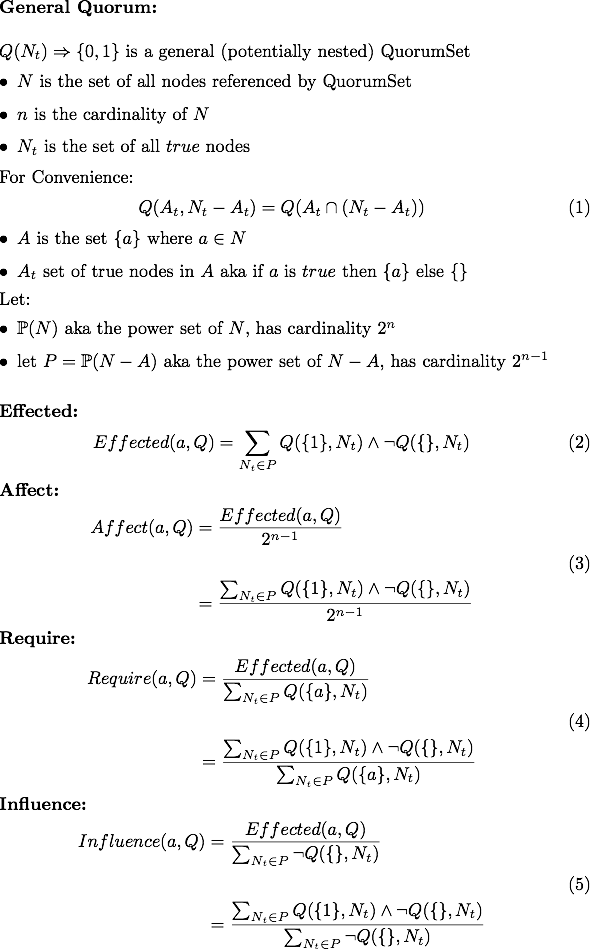
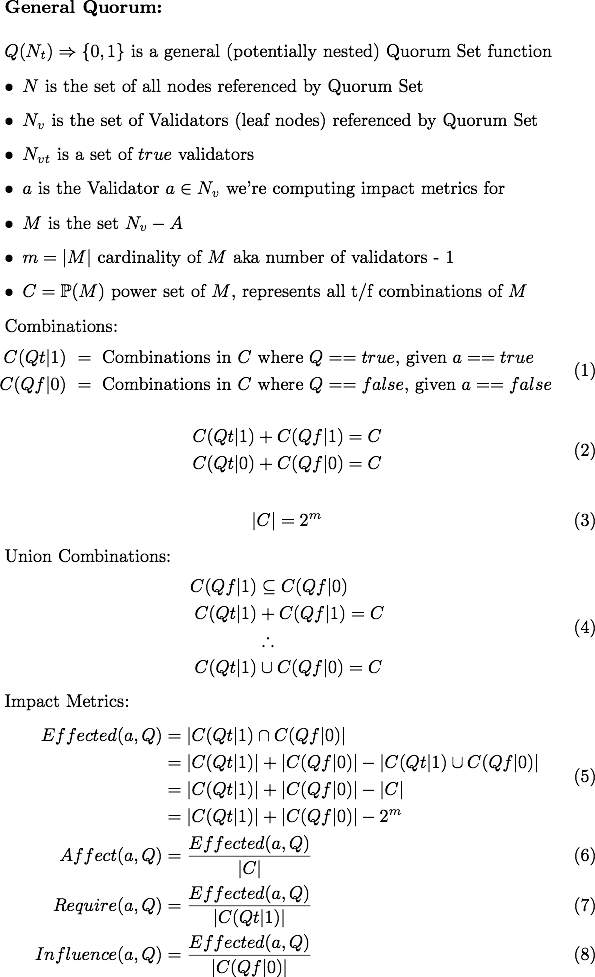
recursive math

diff --git a/iOS/NodeStar/Models/QuorumNode.swift b/iOS/NodeStar/Models/QuorumNode.swift
@@ -197,7 +197,7 @@ class QuorumSet : QuorumNode {
             for trueValidators in neededValidators...validatorNodes.count {
                 let binomialTerm: Int = binomial(n: validatorNodes.count, k: trueValidators)
                 var truthsGivenNodeTrue = 0
-                var falsesGivenNodeFalse = 0
+                var truthsGivenNodeFalse = 0
                 
                 // Given validator true
                 if trueQSNodes + trueValidators + includesSubjectValidator >= threshold {
@@ -205,7 +205,7 @@ class QuorumSet : QuorumNode {
                 }
                 // Given validator false
                 if trueQSNodes + trueValidators >= threshold {
-                    falsesGivenNodeFalse = binomialTerm
+                    truthsGivenNodeFalse = binomialTerm
                 }
                 
                 // Now multiply out the qsNodes
@@ -215,15 +215,15 @@ class QuorumSet : QuorumNode {
                     if i & 2<<(qsIndex-1) > 0 { // Truth of qsNode[qsIndex]
                         // qs node in question is true
                         truthsGivenNodeTrue *= innerMetrics.truthsGivenNodeTrue
-                        falsesGivenNodeFalse *= innerMetrics.truthsGivenNodeFalse
+                        truthsGivenNodeFalse *= innerMetrics.truthsGivenNodeFalse
                     }
                     else { // qs is false
                         truthsGivenNodeTrue *= innerMetrics.falsesGivenNodeTrue
-                        falsesGivenNodeFalse *= innerMetrics.falsesGivenNodeFalse
+                        truthsGivenNodeFalse *= innerMetrics.falsesGivenNodeFalse
                     }
                 }
                 metrics.truthsGivenNodeTrue += truthsGivenNodeTrue
-                metrics.truthsGivenNodeFalse += falsesGivenNodeFalse
+                metrics.truthsGivenNodeFalse += truthsGivenNodeFalse
             }
         }
         

diff --git a/math/math1.tex b/math/math1.tex
@@ -6,74 +6,76 @@
 \begin{document}
 % Export: fontsize=18, mode=auto, type=png
 \newcommand{\powerset}[1]{\mathbb{P}(#1)}
+\newcommand{\cardinality}[1]{\left\vert{#1}\right\vert}
 
-\newcommand{\effectedExpression}[0]{ \sum_{N_t \in P} Q(\{1\},N_t) \land \lnot Q(\{\},N_t) }
-\newcommand{\affectDenomExpression}[0]{ 2^{n-1} }
-\newcommand{\requireDenomExpression}[0]{ \sum_{N_t \in P} Q(\{a\},N_t) }
-\newcommand{\influenceDenomExpression}[0]{ \sum_{N_t \in P} \lnot Q(\{\},N_t) }
+\newcommand{\tgt}[0]{ \cardinality{ C(Qt|1) } }
+\newcommand{\tgf}[0]{ \cardinality{ C(Qt|0) } }
+\newcommand{\fgt}[0]{ \cardinality{ C(Qf|1) } }
+\newcommand{\fgf}[0]{ \cardinality{ C(Qf|0) } }
+\newcommand{\effected}[0]{ \tgt + \fgf - 2^m }
+% ^ Shared Stuff
 
 
 \textbf{General Quorum:}\\\par
-$Q(N_t) \Rightarrow \{0,1\}$ is a general (potentially nested) QuorumSet
+$Q(N_t) \Rightarrow \{0,1\}$ is a general (potentially nested) Quorum Set function
 
 \begin{itemize}
-  \item $N$ is the set of all nodes referenced by QuorumSet
-  \item $n$ is the cardinality of $N$
-  \item $N_t$ is the set of all $true$ nodes
-\end{itemize}
-
-For Convenience:
-\begin{equation}
-    Q(A_t,N_t-A_t) = Q(A_t \cap (N_t-A_t))
-\end{equation}
-\begin{itemize}
-  \item $A$ is the set $\{a\}$ where $a \in N$
-  \item $A_t$ set of true nodes in $A$ aka if $a$ is $true$ then $\{a\}$ else $\{\}$
-\end{itemize}
-
-Let:
-\begin{itemize}
-  \item $\powerset{N}$ aka the power set of $N$, has cardinality $2^n$
-  \item let $P = \powerset{N-A}$ aka the power set of $N-A$, has cardinality $2^{n-1}$
+  \item $N$ is the set of all nodes referenced by Quorum Set
+  \item $N_v$ is the set of Validators (leaf nodes) referenced by Quorum Set
+  \item $N_{vt}$ is a set of $true$ validators
+  \item $a$ is the Validator $a \in N_v$  we're computing impact metrics for
+  \item $M$ is the set $N_v-A$
+  \item $m = \cardinality{M}$ cardinality of $M$ aka number of validators - 1
+  \item $C = \powerset{M}$ power set of $M$, represents all t/f combinations of $M$
 \end{itemize}
 
 
-
-
-
-\leavevmode
-\par
-\textbf{Effected:}
-\begin{equation}
-    Effected(a,Q) = \effectedExpression{}
-\end{equation}
-
-\textbf{Affect:}
+Combinations:
 \begin{align}
 \begin{split}
-    Affect(a,Q) &= \frac{Effected(a,Q)}{\affectDenomExpression{}} \\
-\\
-                &= \frac{\effectedExpression{}}{\affectDenomExpression{}}
+  C(Qt|1) \text{ } &= \text{ Combinations in } C \text{ where } Q == true \text{, given } a == true \\
+  C(Qf|0) \text{ } &= \text{ Combinations in } C \text{ where } Q == false \text{, given } a == false \\
 \end{split}
 \end{align}
 
-\textbf{Require:}
 \begin{align}
 \begin{split}
-    Require(a,Q) &= \frac{Effected(a,Q)}{\requireDenomExpression{}} \\
-\\
-                 &= \frac{\effectedExpression{}}{\requireDenomExpression{}}
+  C(Qt|1) + C(Qf|1) &= C \\
+  C(Qt|0) + C(Qf|0) &= C \\
 \end{split}
 \end{align}
 
-\textbf{Influence:}
 \begin{align}
 \begin{split}
-    Influence(a,Q) &= \frac{Effected(a,Q)}{\influenceDenomExpression{}} \\
-\\
-                   &= \frac{\effectedExpression{}}{\influenceDenomExpression{}}
+  \cardinality{C} &= 2^m
 \end{split}
 \end{align}
-\\
+
+
+Union Combinations:
+\begin{align}
+\begin{split}
+  C(Qf|1) &\subseteq C(Qf|0) \\
+  C(Qt|1) &+ C(Qf|1) = C \\
+             &\therefore \\
+  C(Qt|1) &\cup C(Qf|0) = C
+\end{split}
+\end{align}
+
+
+Impact Metrics:
+\begin{align}
+\begin{split}
+  Effected(a,Q) &= \cardinality{ C(Qt|1) \cap C(Qf|0) } \\
+                &= \tgt + \fgf - \cardinality{ C(Qt|1) \cup C(Qf|0) } \\
+                &= \tgt + \fgf - \cardinality{C} \\
+                &= \effected
+\end{split} \\
+  Affect(a,Q) &= \frac{Effected(a,Q)}{\cardinality{C}} \\
+  Require(a,Q) &= \frac{Effected(a,Q)}{\tgt} \\
+  Influence(a,Q) &= \frac{Effected(a,Q)}{\fgf}
+\end{align}
+
+
 
 \end{document}

diff --git a/math/math3.tex b/math/math3.tex
@@ -1,0 +1,94 @@
+\documentclass[10pt]{article}
+\usepackage[usenames]{color} %used for font color
+\usepackage{amssymb} %maths
+\usepackage{amsmath} %maths
+\usepackage[utf8]{inputenc} %useful to type directly diacritic characters
+\begin{document}
+% Export: fontsize=18, mode=auto, type=png
+\newcommand{\powerset}[1]{\mathbb{P}(#1)}
+\newcommand{\cardinality}[1]{\left\vert{#1}\right\vert}
+
+\newcommand{\tgt}[0]{ \cardinality{ C(Qt|1) } }
+\newcommand{\tgf}[0]{ \cardinality{ C(Qt|0) } }
+\newcommand{\fgt}[0]{ \cardinality{ C(Qf|1) } }
+\newcommand{\fgf}[0]{ \cardinality{ C(Qf|0) } }
+\newcommand{\effected}[0]{ \tgt + \fgf - 2^m }
+% ^ Shared Stuff
+
+\setcounter{equation}{15}
+
+
+
+\textbf{General Quorum - Recursion:}\\\par
+Note: does not work for quorum set with leaf validators used more than once
+
+\begin{itemize}
+  \item $Q_i$ is a Quorum Set function - possibly an inner quorum set function
+  \item $Q_{r}$ is the threshold of Quorum Set
+  \item $M_{c}$ set of direct children of QuorumSet excluding $a$
+  \item $M_{q}$ set of inner quorum set children of QuorumSet excluding $a$
+  \item $M_{v}$ set of validator children of QuorumSet excluding $a$
+  \item $M_{xt}$ set of $true$ children of type x
+  \item $M_{ctr}$ set of true children where cardinality $>=Q_r$
+\end{itemize}
+
+
+
+Recursive Calculation (all combinations of Quorum Set children):
+\begin{itemize}
+  \item Base Case: when $Q$ is $Q_{simple}$ calculate needed values with equations:
+    simple binomial combinations 10 \& 11,
+    combinations complement 2,
+    combinations cardinality 3
+  \item Normal Case: use equations 5-8, we just need to compute
+    $\cardinality{C(Qt|1)}$ and $\cardinality{C(Qt|0)}$
+\end{itemize}
+
+
+\begin{align}
+  Q(expr)_i =
+  \begin{cases}
+    Qt_i \text{ if } expr==true \\
+    Qf_i \text{ if } expr==false
+  \end{cases}
+\end{align}
+
+
+\begin{align}
+  \tgt &=
+        \sum_{ M_{ctr} \in \powerset{ M_{c} } }
+        \prod_{i=1}^{ \cardinality{M_c} }
+                C(Q(i \in M_{ct})_i|1)
+  \\
+  \tgf &=
+        \sum_{ M_{ctr} \in \powerset{ M_{c} } }
+        \prod_{i=1}^{ \cardinality{M_c} }
+                C(Q(i \in M_{ct})_i|0)
+\end{align}
+
+
+\textbf{Recursive Hybrid Binomial}\\\par
+Binomials for validators and all combinations for inner quorum sets
+
+
+
+\begin{align}
+  \tgt &=
+        \sum_{ M_{qt} \in \powerset{ M_{q} } }
+        \sum_{ v=0 }^{ \cardinality{M_v} }
+           (v + \cardinality{M_{qt}} + a \in N_{v}>= Q_r)
+           \binom{ \cardinality{M_v} }{ v }
+           \prod_{q=0}^{ \cardinality{M_q} } C(Q(q \in M_{qt})_i|1)
+  \\
+  \tgf &=
+        \sum_{ M_{qt} \in \powerset{ M_{1} } }
+        \sum_{ v=0 }^{ \cardinality{M_v} }
+           (v + \cardinality{M_{qt}} >= Q_r)
+           \binom{ \cardinality{M_v} }{ v }
+           \prod_{i=0}^{ \cardinality{M_q} } C(Q(q \in M_{qt})_i|0)
+\end{align}
+
+
+
+
+\end{document}

diff --git a/math/math2.tex b/math/math2.tex
@@ -4,46 +4,51 @@
 \usepackage{amsmath} %maths
 \usepackage[utf8]{inputenc} %useful to type directly diacritic characters
 \begin{document}
-% FROM math1.tex
 % Export: fontsize=18, mode=auto, type=png
 \newcommand{\powerset}[1]{\mathbb{P}(#1)}
+\newcommand{\cardinality}[1]{\left\vert{#1}\right\vert}
 
-\newcommand{\effectedExpression}[0]{ \sum_{N_t \in P} Q(\{1\},N_t) \land \lnot Q(\{\},N_t) }
-\newcommand{\affectDenomExpression}[0]{ 2^{n-1} }
-\newcommand{\requireDenomExpression}[0]{ \sum_{N_t \in P} Q(\{a\},N_t) }
-\newcommand{\influenceDenomExpression}[0]{ \sum_{N_t \in P} \lnot Q(\{\},N_t) }
-% END FROM math1.tex
+\newcommand{\tgt}[0]{ \cardinality{ C(Qt|1) } }
+\newcommand{\tgf}[0]{ \cardinality{ C(Qt|0) } }
+\newcommand{\fgt}[0]{ \cardinality{ C(Qf|1) } }
+\newcommand{\fgf}[0]{ \cardinality{ C(Qf|0) } }
+\newcommand{\effected}[0]{ \tgt + \fgf - 2^m }
+% ^ Shared Stuff
 
-% FROM math1.tex uses 5 equations
-\setcounter{equation}{5}
-%
+\setcounter{equation}{8}
 
-\newcommand{\effectedCombinationsExpression}[0]{ \binom{n-1}{r-1} }
+\newcommand{\simpleCombinations}[0]{ \binom{m}{r-1} }
 
 
 
 
 \textbf{Simple Quorum:}\\\par
-$Q_{simple}(r,n,n_t)$ is a QuorumSet that does not contain inner quorum sets:
+$Q_{simple}(r,n,n_t)$ is a Quorum Set function that without inner quorum sets
 \begin{itemize}
-  \item $r$ is threshold for $Q_{simple}$ to be true
-  \item $n$ is number of nodes referenced by QuorumSet
-  \item $n_t$ is the number of nodes that are $true$
+  \item $r$ is the threshold for $Q_{simple}$ to be $true$
+  \item $n$ the count of nodes referenced by the Quorum Set
+  \item $m = n-1$, the count of nodes excluding $a$
 \end{itemize}
-\begin{equation}
-    Q_{simple}(r,n,n_t) = (n_t>=r)
-\end{equation}
-\\
 
-Then the following metrics can be computed directly:
 \begin{equation}
-	Affect(a,Q_{simple}(r,n,n_t)) = \frac{ \effectedCombinationsExpression{} }{ \affectDenomExpression{} }
+  Q_{simple}(r,n,n_t) = (n_t>=r)
 \end{equation}
-\begin{equation}
-	Required(a,Q_{simple}(r,n,n_t)) = \frac{ \effectedCombinationsExpression{} }{ \sum_{i=(r-1)}^{n-1} \binom{n-1}{i} }
-\end{equation}
-\begin{equation}
-	Influence(a,Q_{simple}(r,n,n_t)) = \frac{ \effectedCombinationsExpression{} }{ \sum_{i=0}^{r-1} \binom{n-1}{i} }
-\end{equation}
+
+Combinations:
+\begin{align}
+  \cardinality{ C(Qt_{simple}|1) } &= \sum_{i=(r-1)}^m \binom{m}{i} \\
+  \cardinality{ C(Qf_{simple}|0) } &= \sum_{i=0}^{r-1} \binom{m}{i}
+\end{align}
+
+Impact Metrics:
+\begin{align}
+  Effected(a,Q_{simple}(r,n,n_t)) &= \simpleCombinations \\
+  Affect(a,Q_{simple}(r,n,n_t)) &= \frac{ \simpleCombinations{} }{ 2^m } \\
+  Required(a,Q_{simple}(r,n,n_t)) &= \frac{ \simpleCombinations{} }{ \sum_{i=(r-1)}^{m} \binom{m}{i} } \\
+  Influence(a,Q_{simple}(r,n,n_t)) &= \frac{ \simpleCombinations{} }{ \sum_{i=0}^{r-1} \binom{m}{i} }
+\end{align}
+
+
+
 
 \end{document}

diff --git a/README.md b/README.md
@@ -60,10 +60,13 @@ Terms:
 * Influence() - fraction of node truthiness combinations where node A can overpower, when it Q otherwise would be false
 
 
-### Part 1
-![alt text](math/math1.tex.png "Math 1")
+### Part 1 - Impact Metrics
+![alt text](math/math1.tex.png "Math 1 - impact metrics")
 
-### Part 2
-![alt text](math/math2.tex.png "Math 2")
+### Part 2 - Simple Quorum
+![alt text](math/math2.tex.png "Math 2 - simple quorum")
+
+### Part 3 - Recursive Quorum
+![alt text](math/math3.tex.png "Math 2 - recursive quorum")
 
 
